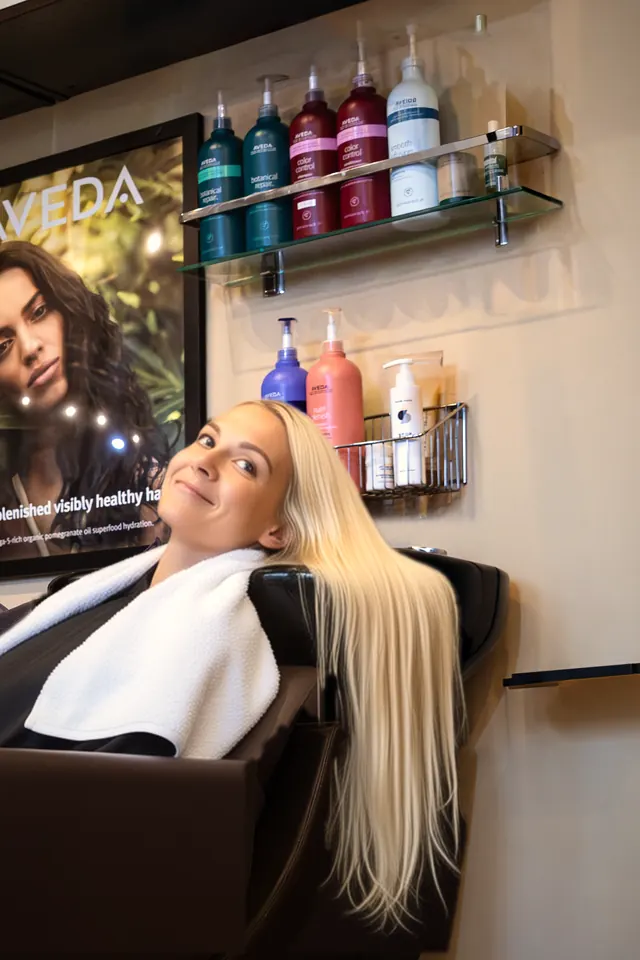
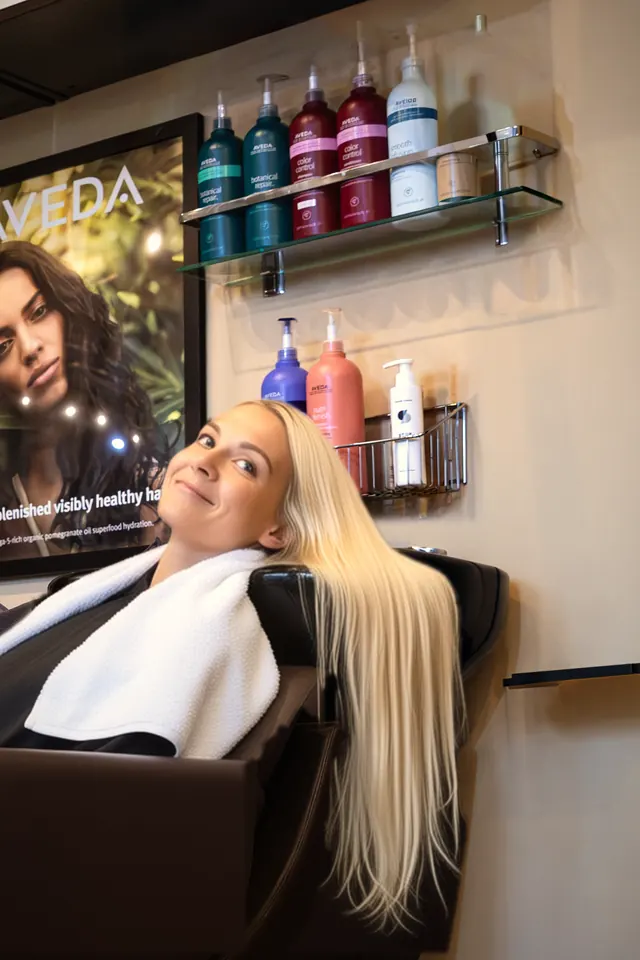
M/G/S: step 02 and Inner Work's door tidied without ghosts; the pause and Blonding on that room (task a8c429a3)
Step 02 (cdfa655's version left ghosts of the removed bottles' shadows, re-lit patches, an invented slim bottle and a
re-labelled one at 1:1): each shelf and basket end redone with FLUX.2 Klein 4B (local), prompts naming the shadows and
the door's or step's own bottles, each checked at 1:1. Inner Work's door (photo 1059): the lamp, cord, mop and broom
removed, and its two shelves and two baskets tidied the same way. The pause and Blonding take the fixed room through
their own paste's alpha (exact), changed only in the tidied areas. Every large bottle and label is the photographer's.

Tools: band_mask.py (a removal's footprint, inside named boxes), keep_real.py (put back a real object a model took),
spot_heal.py (a speck; or clone from plain wall beside it), tone_blend.py (a straight ghost edge on a plain wall).
Not upscaled or sharpened (waits for J's approval). 2.2-2.4 identical; real-shampoo-basins.webp (2.2's) unchanged.

Changed region(s): [[0.6562, 0.0312, 0.875, 0.2188], [0.5625, 0.3438, 0.7188, 0.5312]]

diff --git a/option-2.x-shared/source/band_mask.py b/option-2.x-shared/source/band_mask.py
@@ -1,0 +1,47 @@
+"""The footprint band of a removal edit, for band_paste.py (task a8c429a3): where the edit changed the photo (colour fitted
+first, as band_paste's auto band), kept only inside the boxes that hold the removed items, so whatever else the model
+redrew in its crop never reaches the photo. Writes a mask the size of the photo, and a preview of the crop with the band.
+
+  band_mask.py PHOTO EDIT X,Y OUT [T=40] [close=6] box=x0,y0,x1,y1 [box=...] [cut=x0,y0,x1,y1 ...]
+  (boxes in crop pixels; cut = an area never pasted, e.g. a real bottle the band must not touch; close = how far apart
+  changed pieces may be and still join into one band, e.g. 25 behind a wire basket, so nothing of the item survives between
+  its wires)"""
+import sys
+import numpy as np
+from PIL import Image
+from scipy import ndimage as ndi
+Image.MAX_IMAGE_PIXELS = None
+P, E, XY, OUT = sys.argv[1:5]
+args = sys.argv[5:]
+T = float(next((a[2:] for a in args if a.startswith('T=')), 40))
+CLOSE = int(next((a[6:] for a in args if a.startswith('close=')), 6))
+boxes = [tuple(map(int, a[4:].split(','))) for a in args if a.startswith('box=')]
+cuts = [tuple(map(int, a[4:].split(','))) for a in args if a.startswith('cut=')]
+x, y = map(int, XY.split(','))
+photo = Image.open(P).convert('RGB')
+W, H = photo.size
+e = np.asarray(Image.open(E).convert('RGB')).astype(np.float64) / 255
+h, w = e.shape[:2]
+o = np.asarray(photo.crop((x, y, x + w, y + h))).astype(np.float64) / 255
+ef = e.copy()
+for c in range(3):
+    g, b0 = np.polyfit(e[..., c].ravel(), o[..., c].ravel(), 1)
+    ef[..., c] = e[..., c] * g + b0
+d = np.abs(ndi.gaussian_filter(o, (2, 2, 0)) - ndi.gaussian_filter(ef, (2, 2, 0))).max(2) * 255
+keep = np.zeros((h, w), bool)
+for x0, y0, x1, y1 in boxes:
+    keep[y0:y1, x0:x1] = True
+m = (d > T) & keep
+lab, n = ndi.label(m)
+m = np.isin(lab, 1 + np.nonzero(ndi.sum(m, lab, range(1, n + 1)) >= 200)[0])
+m = ndi.binary_fill_holes(ndi.binary_closing(np.pad(m, CLOSE), iterations=CLOSE)[CLOSE:-CLOSE, CLOSE:-CLOSE]) & keep
+for x0, y0, x1, y1 in cuts:
+    m[y0:y1, x0:x1] = False
+full = np.zeros((H, W), np.uint8)
+full[y:y + h, x:x + w] = m * 255
+Image.fromarray(full).save(OUT)
+prev = (o * 255).astype(np.uint8).copy()
+edge = m ^ ndi.binary_erosion(m, iterations=3)
+prev[edge] = (255, 0, 0)
+Image.fromarray(prev).save(OUT.rsplit('.', 1)[0] + '-preview.png')
+print({'out': OUT, 'band_px': int(m.sum())})

diff --git a/option-2.x-shared/source/spot_heal.py b/option-2.x-shared/source/spot_heal.py
@@ -1,0 +1,41 @@
+"""Heal small specks a removal model left on a plain surface (task a8c429a3): each spot (x, y, radius in full-size pixels)
+takes the surface's smooth tone from the ring around it (normalized blur, the spot itself left out) and its fine grain from
+the same-size patch just beside it, so the healed spot keeps the photo's grain. Every pixel outside the spots is unchanged.
+
+  spot_heal.py PHOTO OUT x,y,r[,dx,dy] [...]
+  (with dx,dy the spot is cloned from the plain surface at that offset instead, e.g. 0,-32 for the wall just above: for a
+  spot beside a bright object, whose ring would lend the fill its colour)"""
+import sys
+import numpy as np
+from PIL import Image
+from scipy import ndimage as ndi
+Image.MAX_IMAGE_PIXELS = None
+P, OUT = sys.argv[1:3]
+photo = np.asarray(Image.open(P).convert('RGB')).copy()
+for spec in sys.argv[3:]:
+    v = list(map(int, spec.split(',')))
+    x, y, r = v[:3]
+    if len(v) == 5:
+        dx, dy = v[3:]
+        R = r + 4
+        yy, xx = np.mgrid[y - R:y + R + 1, x - R:x + R + 1]
+        w = np.clip((r + 2 - np.hypot(yy - y, xx - x)) / 3, 0, 1)[..., None]
+        dst = photo[y - R:y + R + 1, x - R:x + R + 1].astype(np.float64)
+        src = photo[y - R + dy:y + R + 1 + dy, x - R + dx:x + R + 1 + dx].astype(np.float64)
+        photo[y - R:y + R + 1, x - R:x + R + 1] = np.clip(dst * (1 - w) + src * w + 0.5, 0, 255).astype(np.uint8)
+        continue
+    R = 4 * r
+    y0, y1, x0, x1 = max(0, y - R), min(photo.shape[0], y + R + 1), max(0, x - R), min(photo.shape[1], x + R + 1)
+    win = photo[y0:y1, x0:x1].astype(np.float64)
+    yy, xx = np.mgrid[y0:y1, x0:x1]
+    d = np.hypot(yy - y, xx - x)
+    spot = d <= r
+    keep = (~spot).astype(np.float64)
+    smooth = np.stack([ndi.gaussian_filter(win[..., c] * keep, r) / np.maximum(ndi.gaussian_filter(keep, r), 1e-6) for c in range(3)], -1)
+    hp = win - np.stack([ndi.gaussian_filter(win[..., c], 2) for c in range(3)], -1)
+    grain = np.roll(hp, (0, -2 * r - 2), (0, 1))          # the patch just to the right
+    w = np.clip((r + 2 - d) / 3, 0, 1)[..., None]         # a 3 px soft edge
+    win = win * (1 - w) + (smooth + grain) * w
+    photo[y0:y1, x0:x1] = np.clip(win + 0.5, 0, 255).astype(np.uint8)
+Image.fromarray(photo).save(OUT)
+print({'out': OUT, 'spots': len(sys.argv) - 3})

diff --git a/option-2.x-shared/source/tone_blend.py b/option-2.x-shared/source/tone_blend.py
@@ -1,0 +1,26 @@
+"""Soften a straight tonal edge a removal left on a plain wall (task a8c429a3): the ghost of a removed object's side, where its
+shadow ended. Inside a box, the wall's broad tone is smoothed along one direction (sx across a vertical edge, sy across a
+horizontal one) and the photo's own grain is kept; the box's edges are feathered, every pixel outside it is unchanged.
+
+  tone_blend.py PHOTO OUT x0,y0,x1,y1 sx,sy   (full-size pixels; sigmas in pixels, e.g. 60,4 for a vertical edge)"""
+import sys
+import numpy as np
+from PIL import Image
+from scipy import ndimage as ndi
+Image.MAX_IMAGE_PIXELS = None
+P, OUT, BOX, S = sys.argv[1:5]
+x0, y0, x1, y1 = map(int, BOX.split(','))
+sx, sy = map(float, S.split(','))
+photo = np.asarray(Image.open(P).convert('RGB')).copy()
+M = int(3 * max(sx, sy))
+X0, Y0, X1, Y1 = max(0, x0 - M), max(0, y0 - M), min(photo.shape[1], x1 + M), min(photo.shape[0], y1 + M)
+win = photo[Y0:Y1, X0:X1].astype(np.float64)
+low = ndi.gaussian_filter(win, (2, 2, 0))          # only the finest grain is kept: a sharp ghost edge is smoothed too
+broad = ndi.gaussian_filter(low, (sy, sx, 0))
+inside = np.zeros(win.shape[:2])
+inside[y0 - Y0:y1 - Y0, x0 - X0:x1 - X0] = 1
+w = ndi.gaussian_filter(inside, 6)[..., None] * inside[..., None]
+win = win + (broad - low) * w
+photo[Y0:Y1, X0:X1] = np.clip(win + 0.5, 0, 255).astype(np.uint8)
+Image.fromarray(photo).save(OUT)
+print({'out': OUT, 'box': [x0, y0, x1, y1]})

diff --git a/option-2.x-shared/source/keep_real.py b/option-2.x-shared/source/keep_real.py
@@ -1,0 +1,23 @@
+"""Put a real object back after a removal paste took it too (task a8c429a3): inside the object's outline, given as boxes of
+its parts (full-size pixels), every pixel is the photo's own from BEFORE the paste, with a 1.5 px soft edge; every other
+pixel is AFTER's. Used when a model removed what it was asked to keep (a real bottle beside the removed ones).
+
+  keep_real.py BEFORE AFTER OUT x0,y0,x1,y1 [x0,y0,x1,y1 ...]"""
+import sys
+import numpy as np
+from PIL import Image
+from scipy import ndimage as ndi
+Image.MAX_IMAGE_PIXELS = None
+BEFORE, AFTER, OUT = sys.argv[1:4]
+boxes = [tuple(map(int, a.split(','))) for a in sys.argv[4:]]
+b = np.asarray(Image.open(BEFORE).convert('RGB'))
+a = np.asarray(Image.open(AFTER).convert('RGB')).copy()
+X0, Y0 = min(x[0] for x in boxes) - 8, min(x[1] for x in boxes) - 8
+X1, Y1 = max(x[2] for x in boxes) + 8, max(x[3] for x in boxes) + 8
+m = np.zeros((Y1 - Y0, X1 - X0))
+for x0, y0, x1, y1 in boxes:
+    m[y0 - Y0:y1 - Y0, x0 - X0:x1 - X0] = 1
+w = ndi.gaussian_filter(m, 1.5)[..., None]
+a[Y0:Y1, X0:X1] = (b[Y0:Y1, X0:X1] * w + a[Y0:Y1, X0:X1] * (1 - w) + 0.5).astype(np.uint8)
+Image.fromarray(a).save(OUT)
+print({'out': OUT, 'boxes': len(boxes)})
